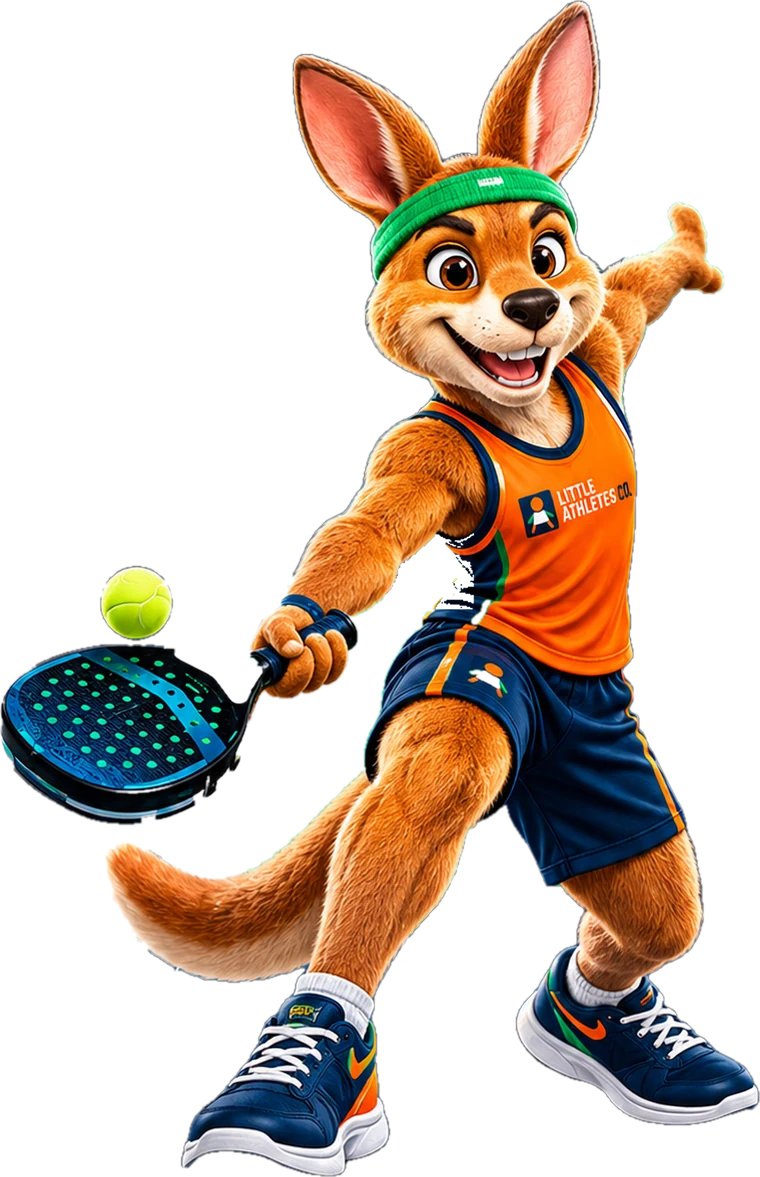
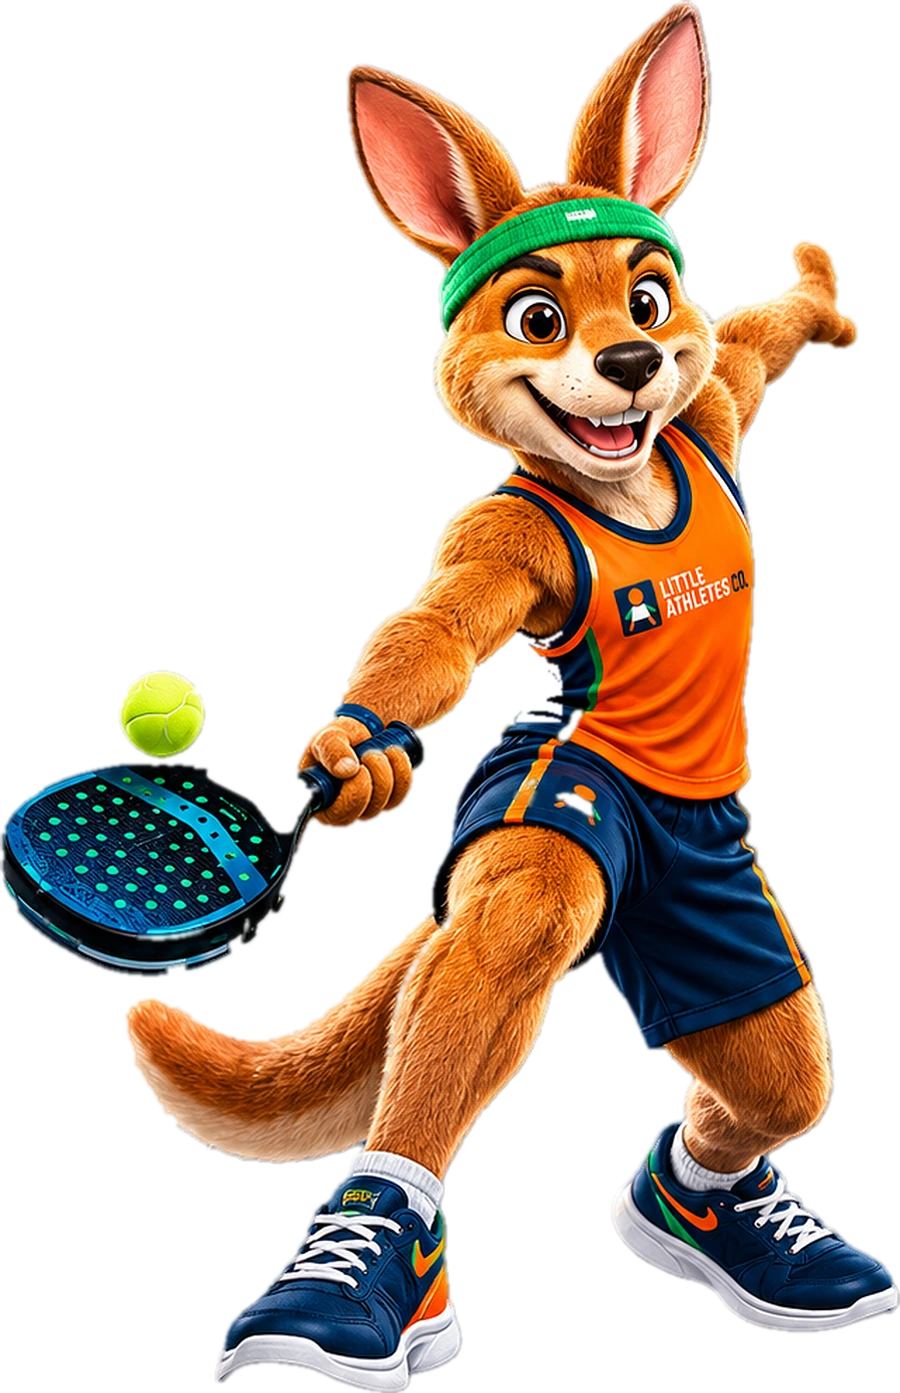
Re-extract hero mascot from original pixels (no AI upscaling), cleaner fur edges
Claude-Session: https://claude.ai/code/session_012xNJdSNKHRnMvVVeKyKEUj

diff --git a/index.html b/index.html
@@ -303,7 +303,7 @@ footer b{color:var(--orange);font-weight:800}
       </div>
     </div>
     <div class="hero-art">
-      <img src="/images/mascot-hero.webp" width="760" height="1177" alt="Little Athletes Co. kangaroo mascot playing sport, the face of our Brisbane childcare sports incursions"/>
+      <img src="/images/mascot-hero.webp" width="900" height="1393" alt="Little Athletes Co. kangaroo mascot playing sport, the face of our Brisbane childcare sports incursions"/>
     </div>
   </div>
 </section>
